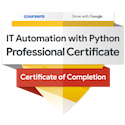
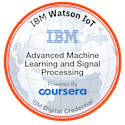
added badges

diff --git a/README.md b/README.md
@@ -1,19 +1,29 @@
 ![](https://komarev.com/ghpvc/?username=belitk&color=grey)
 
 ## Hi, I`m Belit
-- 🎓 4th year Computer Engineering student at Beykent University.
-  
 
+🎓 4th year Computer Engineering student at Beykent University. Interested in robotics and automation.
+
+#### Skills:
+![Python](https://img.shields.io/badge/Python-purple?style=for-the-badge&logo=python&logoColor=FFFF00) ![Heroku](https://img.shields.io/badge/Heroku-430098?style=for-the-badge&logo=heroku&logoColor=white)  ![GCloud](https://img.shields.io/badge/Google_Cloud-4285D4?style=for-the-badge&logo=google-cloud&logoColor=white)    ![Flask](https://img.shields.io/badge/Flask-092E20?style=for-the-badge&logo=flask&logoColor=white)  ![ROS](https://img.shields.io/badge/ROS-000000?style=for-the-badge&logo=Ros&logoColor=Black)  ![Opencv](https://img.shields.io/badge/-Opencv-C51A4A?style=for-the-badge&logo=opencv)  ![Raspberry](https://img.shields.io/badge/-Raspberry%20Pi-C51A4A?style=for-the-badge&logo=Raspberry-Pi)  ![Postgre](https://img.shields.io/badge/PostgreSQL-FFFFFF?style=for-the-badge&logo=postgresql&logoColor=purple)  ![MongoDb](https://img.shields.io/badge/MongoDB-4EA94B?style=for-the-badge&logo=mongodb&logoColor=white)
+![Pycharm](https://img.shields.io/badge/Pycharm-111111?style=for-the-badge&logo=Pycharm&logoColor=white)
 
 [![BelitK's GitHub stats](https://github-readme-stats.vercel.app/api?username=belitk&show_icons=true&theme=nightowl)](https://github.com/anuraghazra/github-readme-stats)
-[![trophy](https://github-profile-trophy.vercel.app/?username=belitk&row=2&column=3&theme=onedark&no-frame=true)](https://github.com/ryo-ma/github-profile-trophy)
 
 
-- 🌱 I’m currently learning:
+
+- 🌱 I’m currently Studying: Drone Automation & Targeting
 - 📫 How to reach me:
-[![LinkedIn](https://img.shields.io/badge/LinkedIn-0077B5?style=for-the-badge&logo=linkedin&logoColor=black
+
+    [![LinkedIn](https://img.shields.io/badge/LinkedIn-0077B5?style=for-the-badge&logo=linkedin&logoColor=white
 )](https://www.linkedin.com/in/belit-k/)
+[![Hotmail](https://img.shields.io/badge/Gmail-99001A?style=for-the-badge&logo=Gmail&logoColor=white
+)](mailto:belitberdelk@gmail.com)
 
-- ⚡ Badges: ...
+- ⚡ Badges:
 
-[![Google it automation certificate](/certificates/google-it-automation-professional-certificate.png)](https://www.youracclaim.com/badges/bbe95a27-287b-401f-a145-e74458dda89b/public_url)[![Google it support certificate](/certificates/google-it-support-professional-certificate.png)](https://www.youracclaim.com/badges/32c76830-02e2-4de0-be9a-6d9576fd30a9/public_url)[![linux open source badge](certificates/open-source-software-development-linux-and-git-specialization.png)](https://www.youracclaim.com/badges/0eb80a7d-aaa5-40d1-b46d-1fc8f6eb8e2d/public_url)[![IBM applied ai](certificates/advanced-machine-learning-and-signal-processing.png)](https://www.youracclaim.com/badges/94a0f774-310a-4909-bd8f-282f5cc0c6a0/public_url)[![IBM ml and signal processing](certificates/applied-ai-with-deeplearning.png)](https://www.youracclaim.com/badges/2d9ddb4f-bd92-441e-88f4-7492a9649eba/public_url)[![IBM scalable data](certificates/fundamentals-of-scalable-data-science.png)](https://www.youracclaim.com/badges/b27fbbe0-8829-4a67-808a-b7ca6edc4f9c/public_url)
+[![Google it automation certificate](/certificates/google-it-automation-professional-certificate.png)](https://www.youracclaim.com/badges/bbe95a27-287b-401f-a145-e74458dda89b/public_url) [![Google it support certificate](/certificates/google-it-support-professional-certificate.png)](https://www.youracclaim.com/badges/32c76830-02e2-4de0-be9a-6d9576fd30a9/public_url) [![linux open source badge](certificates/open-source-software-development-linux-and-git-specialization.png)](https://www.youracclaim.com/badges/0eb80a7d-aaa5-40d1-b46d-1fc8f6eb8e2d/public_url) [![IBM applied ai](certificates/applied-ai-with-deeplearning.png)](https://www.youracclaim.com/badges/94a0f774-310a-4909-bd8f-282f5cc0c6a0/public_url) [![IBM ml and signal processing](certificates/advanced-machine-learning-and-signal-processing.png)](https://www.youracclaim.com/badges/2d9ddb4f-bd92-441e-88f4-7492a9649eba/public_url) [![IBM scalable data](certificates/fundamentals-of-scalable-data-science.png)](https://www.youracclaim.com/badges/b27fbbe0-8829-4a67-808a-b7ca6edc4f9c/public_url)
+
+- 🏆 Trophies:
+
+[![trophy](https://github-profile-trophy.vercel.app/?username=belitk&row=2&column=3&theme=onedark&no-frame=true)](https://github.com/ryo-ma/github-profile-trophy)
